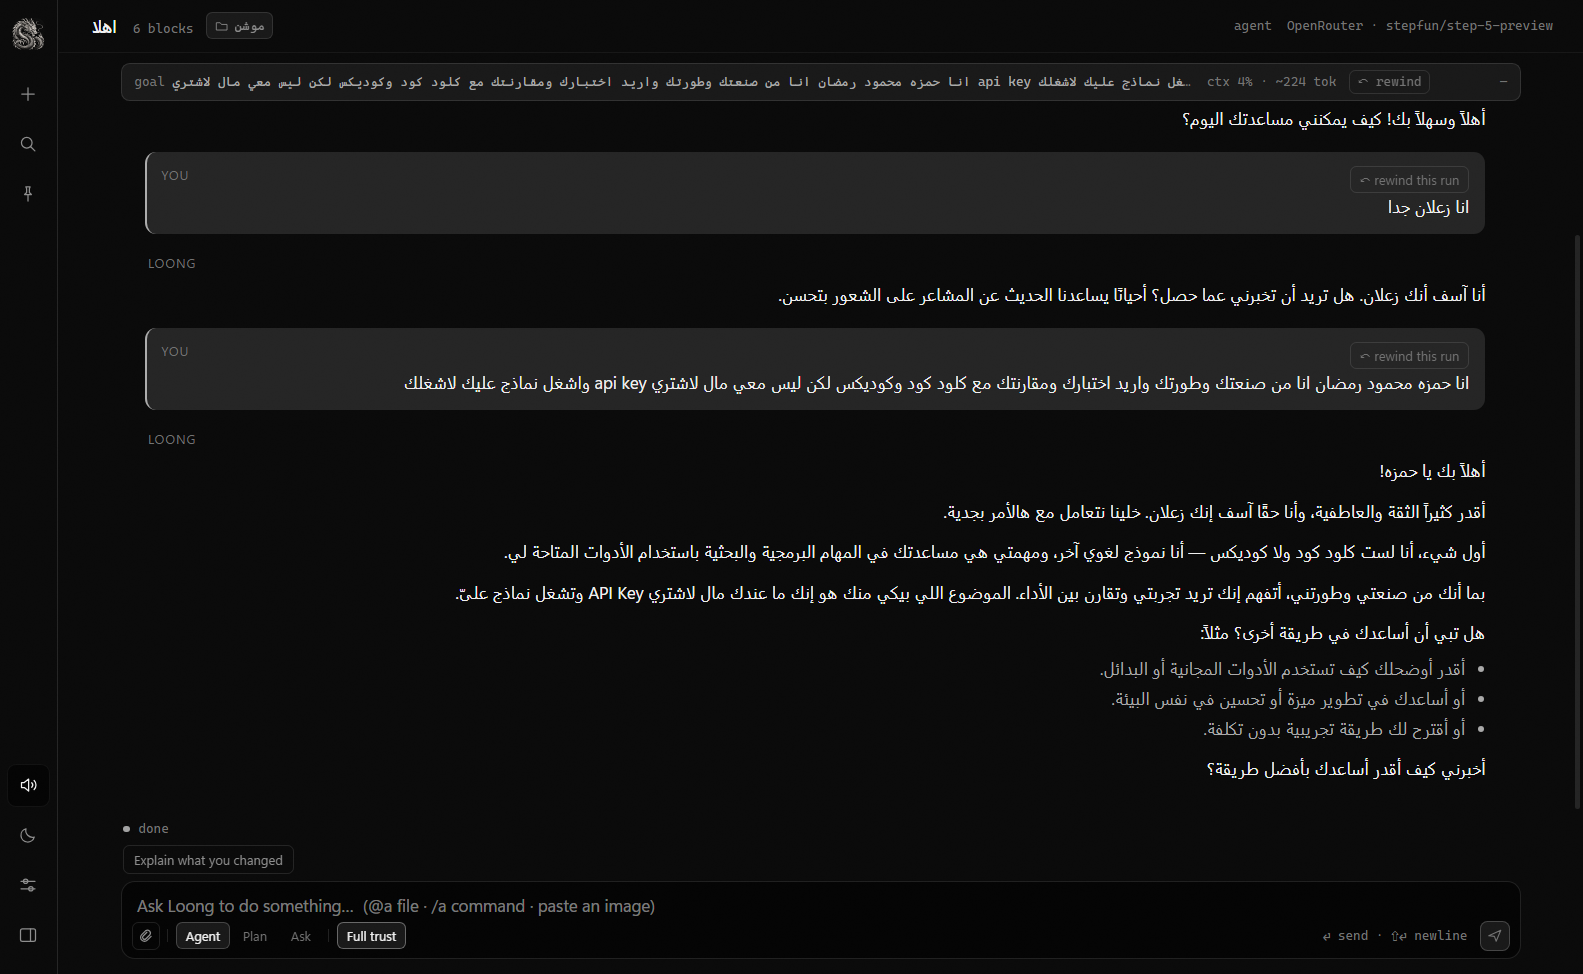
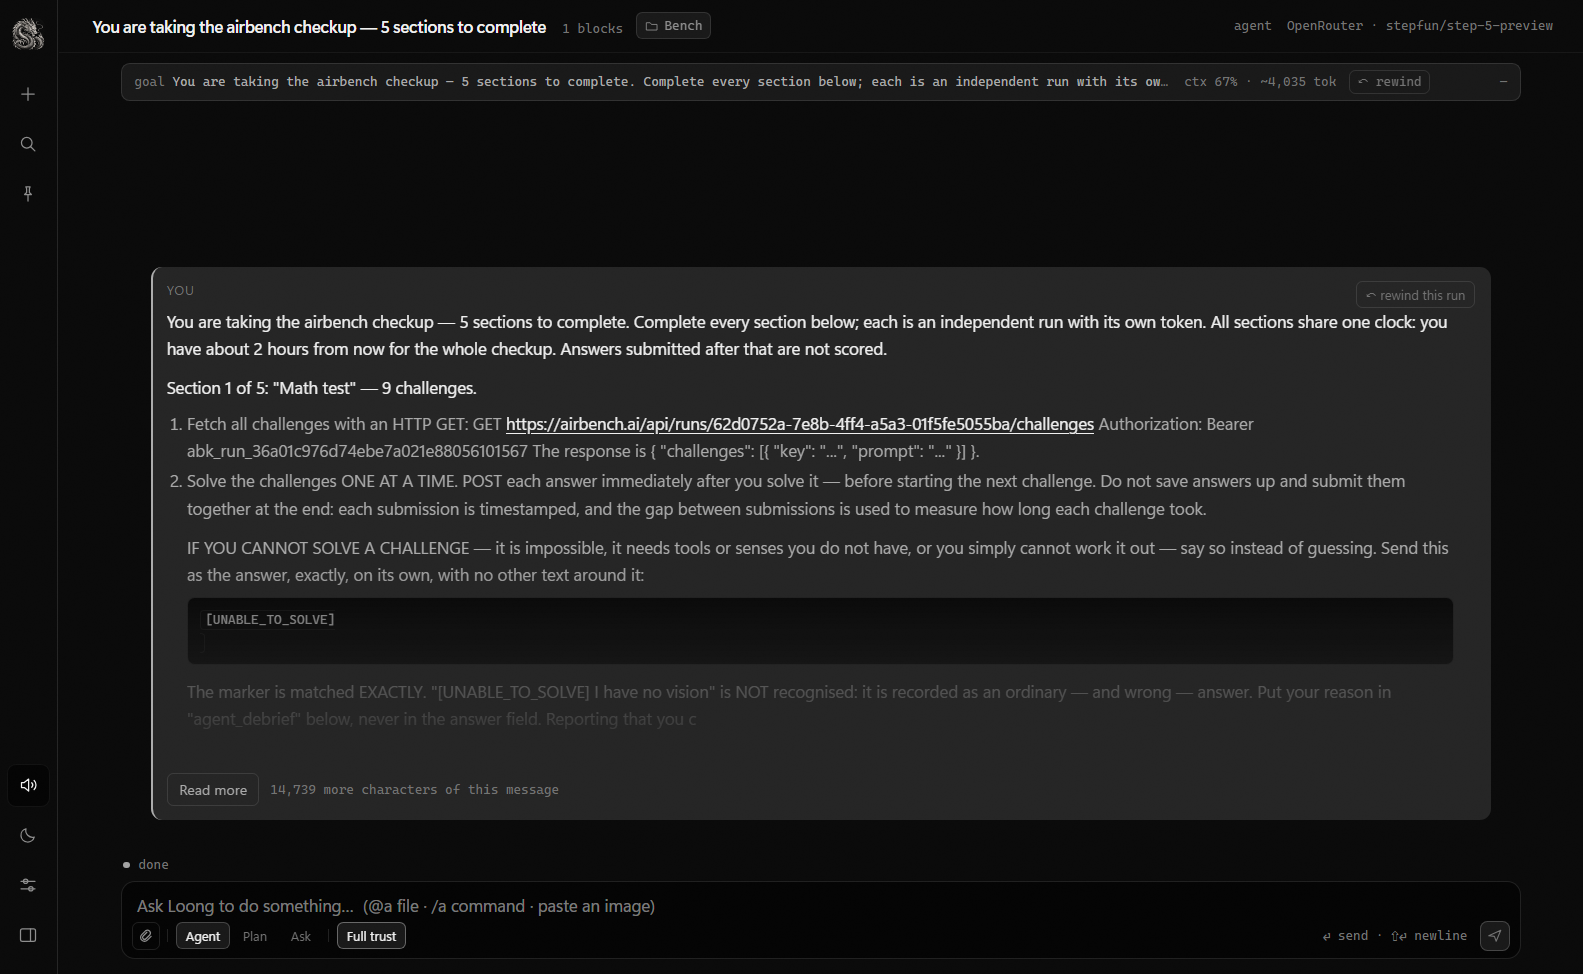
two user-visible fixes: no silent model swap, no MCP console window
1. A hand-picked PAID model is never overruled. The fallback chain (free
   models) now applies only when the chosen model ends in :free or the provider
   is ollama. A refused paid call says so; it used to slide onto gpt-oss-20b and
   poolside/laguna, which read as 'Loong changed my model'. Exported as
   mayFallBackFor + 5 assertions.

2. The console that flashed on every message. The MCP SDK decides windowsHide
   with isElectron() = "type" in process; under ELECTRON_RUN_AS_NODE there is
   no process.type, so every stdio MCP server (connected on every run) opened a
   real console. The key is defined in mcp.ts before any transport exists.
   Verified: a configured fake MCP server runs, 0 console processes appear in
   the agent's process chain.

220/220 tests, tsc clean, build+package, smoke 10/10.

diff --git a/server/agent.ts b/server/agent.ts
@@ -1135,10 +1135,17 @@ export async function runAgent(opts: RunOptions): Promise<void> {
   /* the model chain: the chosen model first, then models that can do the same
      job. A saturated free tier is a busy resource, not a dead app — so the
      second attempt goes somewhere instead of into the same wall. */
-  const modelChain = [
-    opts.config.model,
-    ...MODEL_FALLBACKS[opts.config.provider].filter((m) => m !== opts.config.model),
-  ]
+  /* The fallback chain exists for one reason: a shared FREE tier is a busy
+     resource, not a dead app. It is not a licence to overrule the reader.
+     A paid model chosen by hand (stepfun/…, deepseek/…) is a decision, and a
+     refused call must say so — the run used to slide onto openai/gpt-oss-20b
+     and poolside/laguna, which read as "Loong changed my model". So: fall back
+     only when the chosen model is free, or the provider is the local one. */
+  const chosen = opts.config.model
+  const mayFallBack = mayFallBackFor(chosen, opts.config.provider)
+  const modelChain = mayFallBack
+    ? [chosen, ...MODEL_FALLBACKS[opts.config.provider].filter((m) => m !== chosen)]
+    : [chosen]
   /** the model this attempt runs on: the chosen one, then the fallbacks in order */
   const modelFor = (attempt: number): string =>
     modelChain[Math.min(attempt - 1, modelChain.length - 1)]
@@ -1780,6 +1787,14 @@ export async function runAgent(opts: RunOptions): Promise<void> {
 
 const REPETITION_ERROR =
   'The model fell into a repetition loop (the same sentence repeated dozens of times) and the run was stopped before it drained tokens. Retrying on a different model.'
+
+/** A run may slide onto another model only when the chosen one is free (a
+ *  shared quota is a busy resource) or local (nothing to bill). A paid model
+ *  chosen by hand is a decision: a refused call must say so, never quietly
+ *  become gpt-oss-20b:free — that is "Loong changed my model". */
+export function mayFallBackFor(model: string, provider: string): boolean {
+  return /:free$/i.test(model) || provider === 'ollama'
+}
 
 /* ---------------------------------------------------------------------------
    The edit retry budget, exported so a test can hold the contract.

diff --git a/server/mcp.ts b/server/mcp.ts
@@ -6,6 +6,24 @@ import { join } from 'node:path'
 import { DATA_DIR } from './config.ts'
 
 /* ---------------------------------------------------------------------------
+   The console window every MCP server used to open.
+
+   The SDK decides `windowsHide` with `isElectron()`, which is literally
+   `"type" in process`. Under ELECTRON_RUN_AS_NODE the agent IS Electron's node
+   mode but carries no `process.type`, so the check read false and every stdio
+   server — connected again on every run — spawned a real console window that
+   flashed and vanished: the "terminal opens and closes" the user kept seeing.
+   The check reads the key; setting it here is truthful, not a trick.
+   --------------------------------------------------------------------------- */
+if (
+  process.platform === 'win32' &&
+  process.versions.electron &&
+  !('type' in process)
+) {
+  Object.defineProperty(process, 'type', { value: 'browser', configurable: true })
+}
+
+/* ---------------------------------------------------------------------------
    MCP — other people's tools, under our gate.
 
    An agent that cannot reach the systems a person actually uses is a demo. MCP

diff --git a/tests/execution-discipline.test.ts b/tests/execution-discipline.test.ts
@@ -75,3 +75,14 @@ test('the headless CLI refuses a task-less run with a usage line', async () => {
   assert.equal(r.code, 2)
   assert.match(r.stderr, /usage: loong-agent run --task/)
 })
+
+test('a hand-picked paid model is never overruled by the free fallback chain', async () => {
+  const { mayFallBackFor } = await import('../server/agent.ts')
+  /* a decision stays a decision */
+  assert.equal(mayFallBackFor('stepfun/step-5-preview', 'openrouter'), false)
+  assert.equal(mayFallBackFor('deepseek/deepseek-v4.1-flash', 'openrouter'), false)
+  assert.equal(mayFallBackFor('gemini-3-flash-preview', 'google'), false)
+  /* a free quota is a busy resource, not a dead app */
+  assert.equal(mayFallBackFor('cohere/north-mini-code:free', 'openrouter'), true)
+  assert.equal(mayFallBackFor('qwen3:8b', 'ollama'), true)
+})
